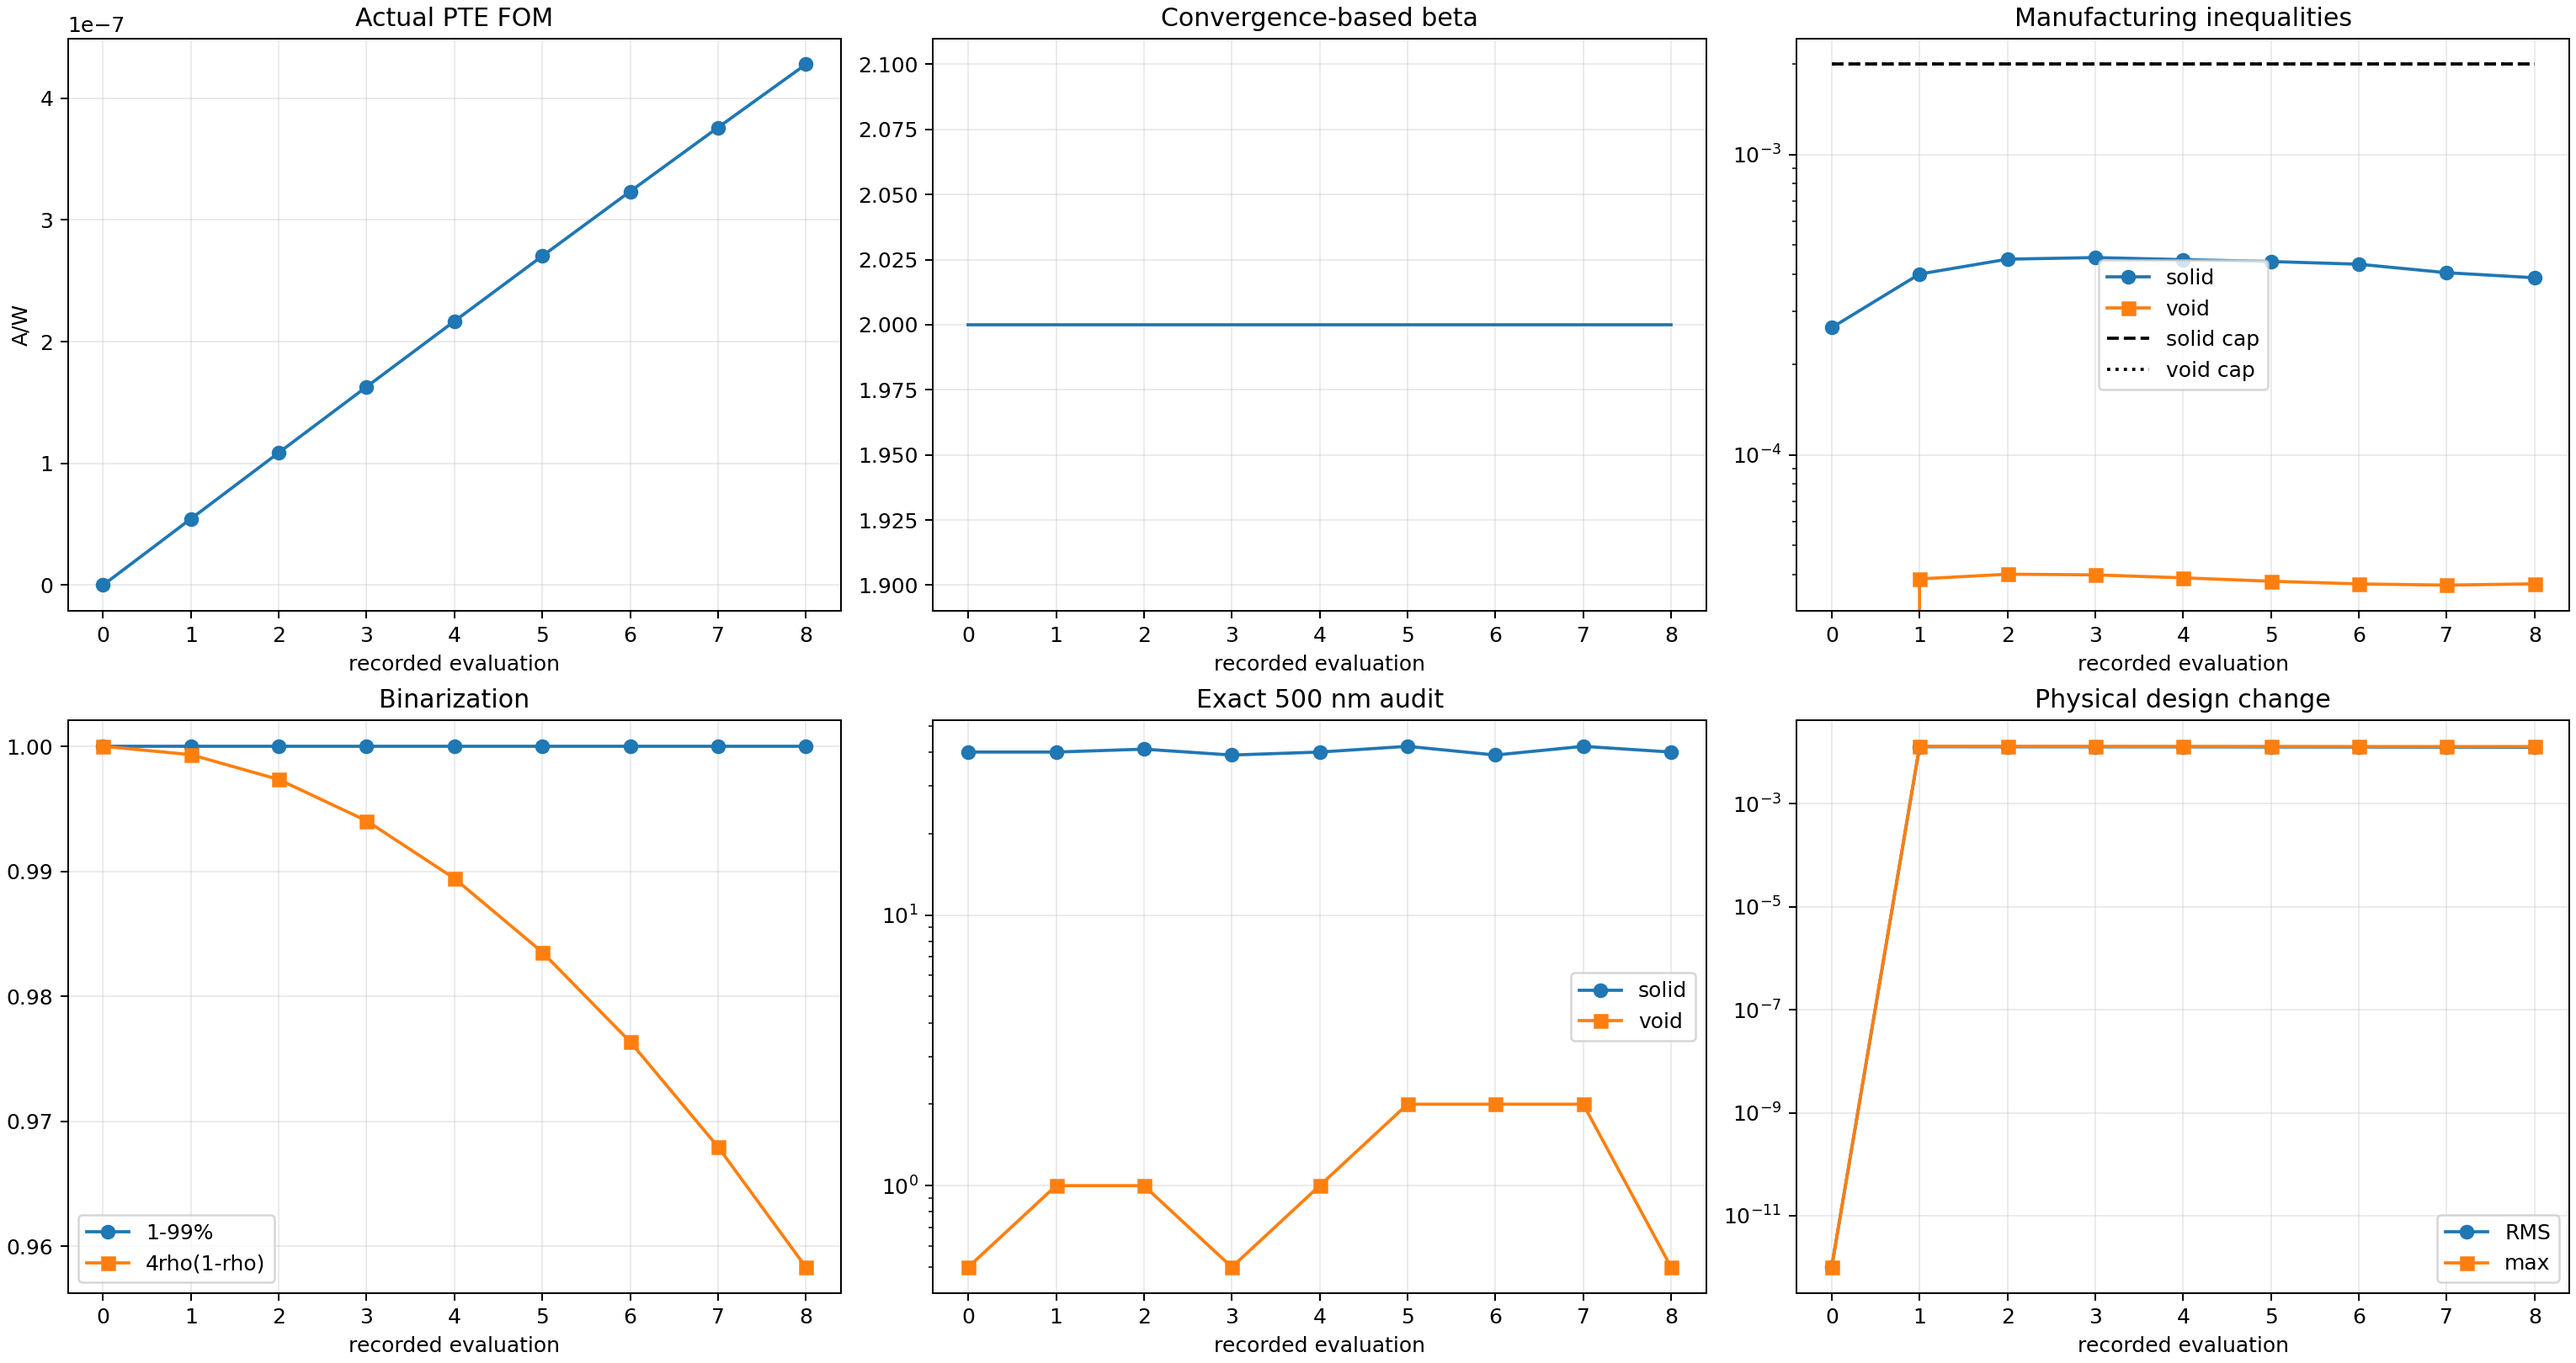
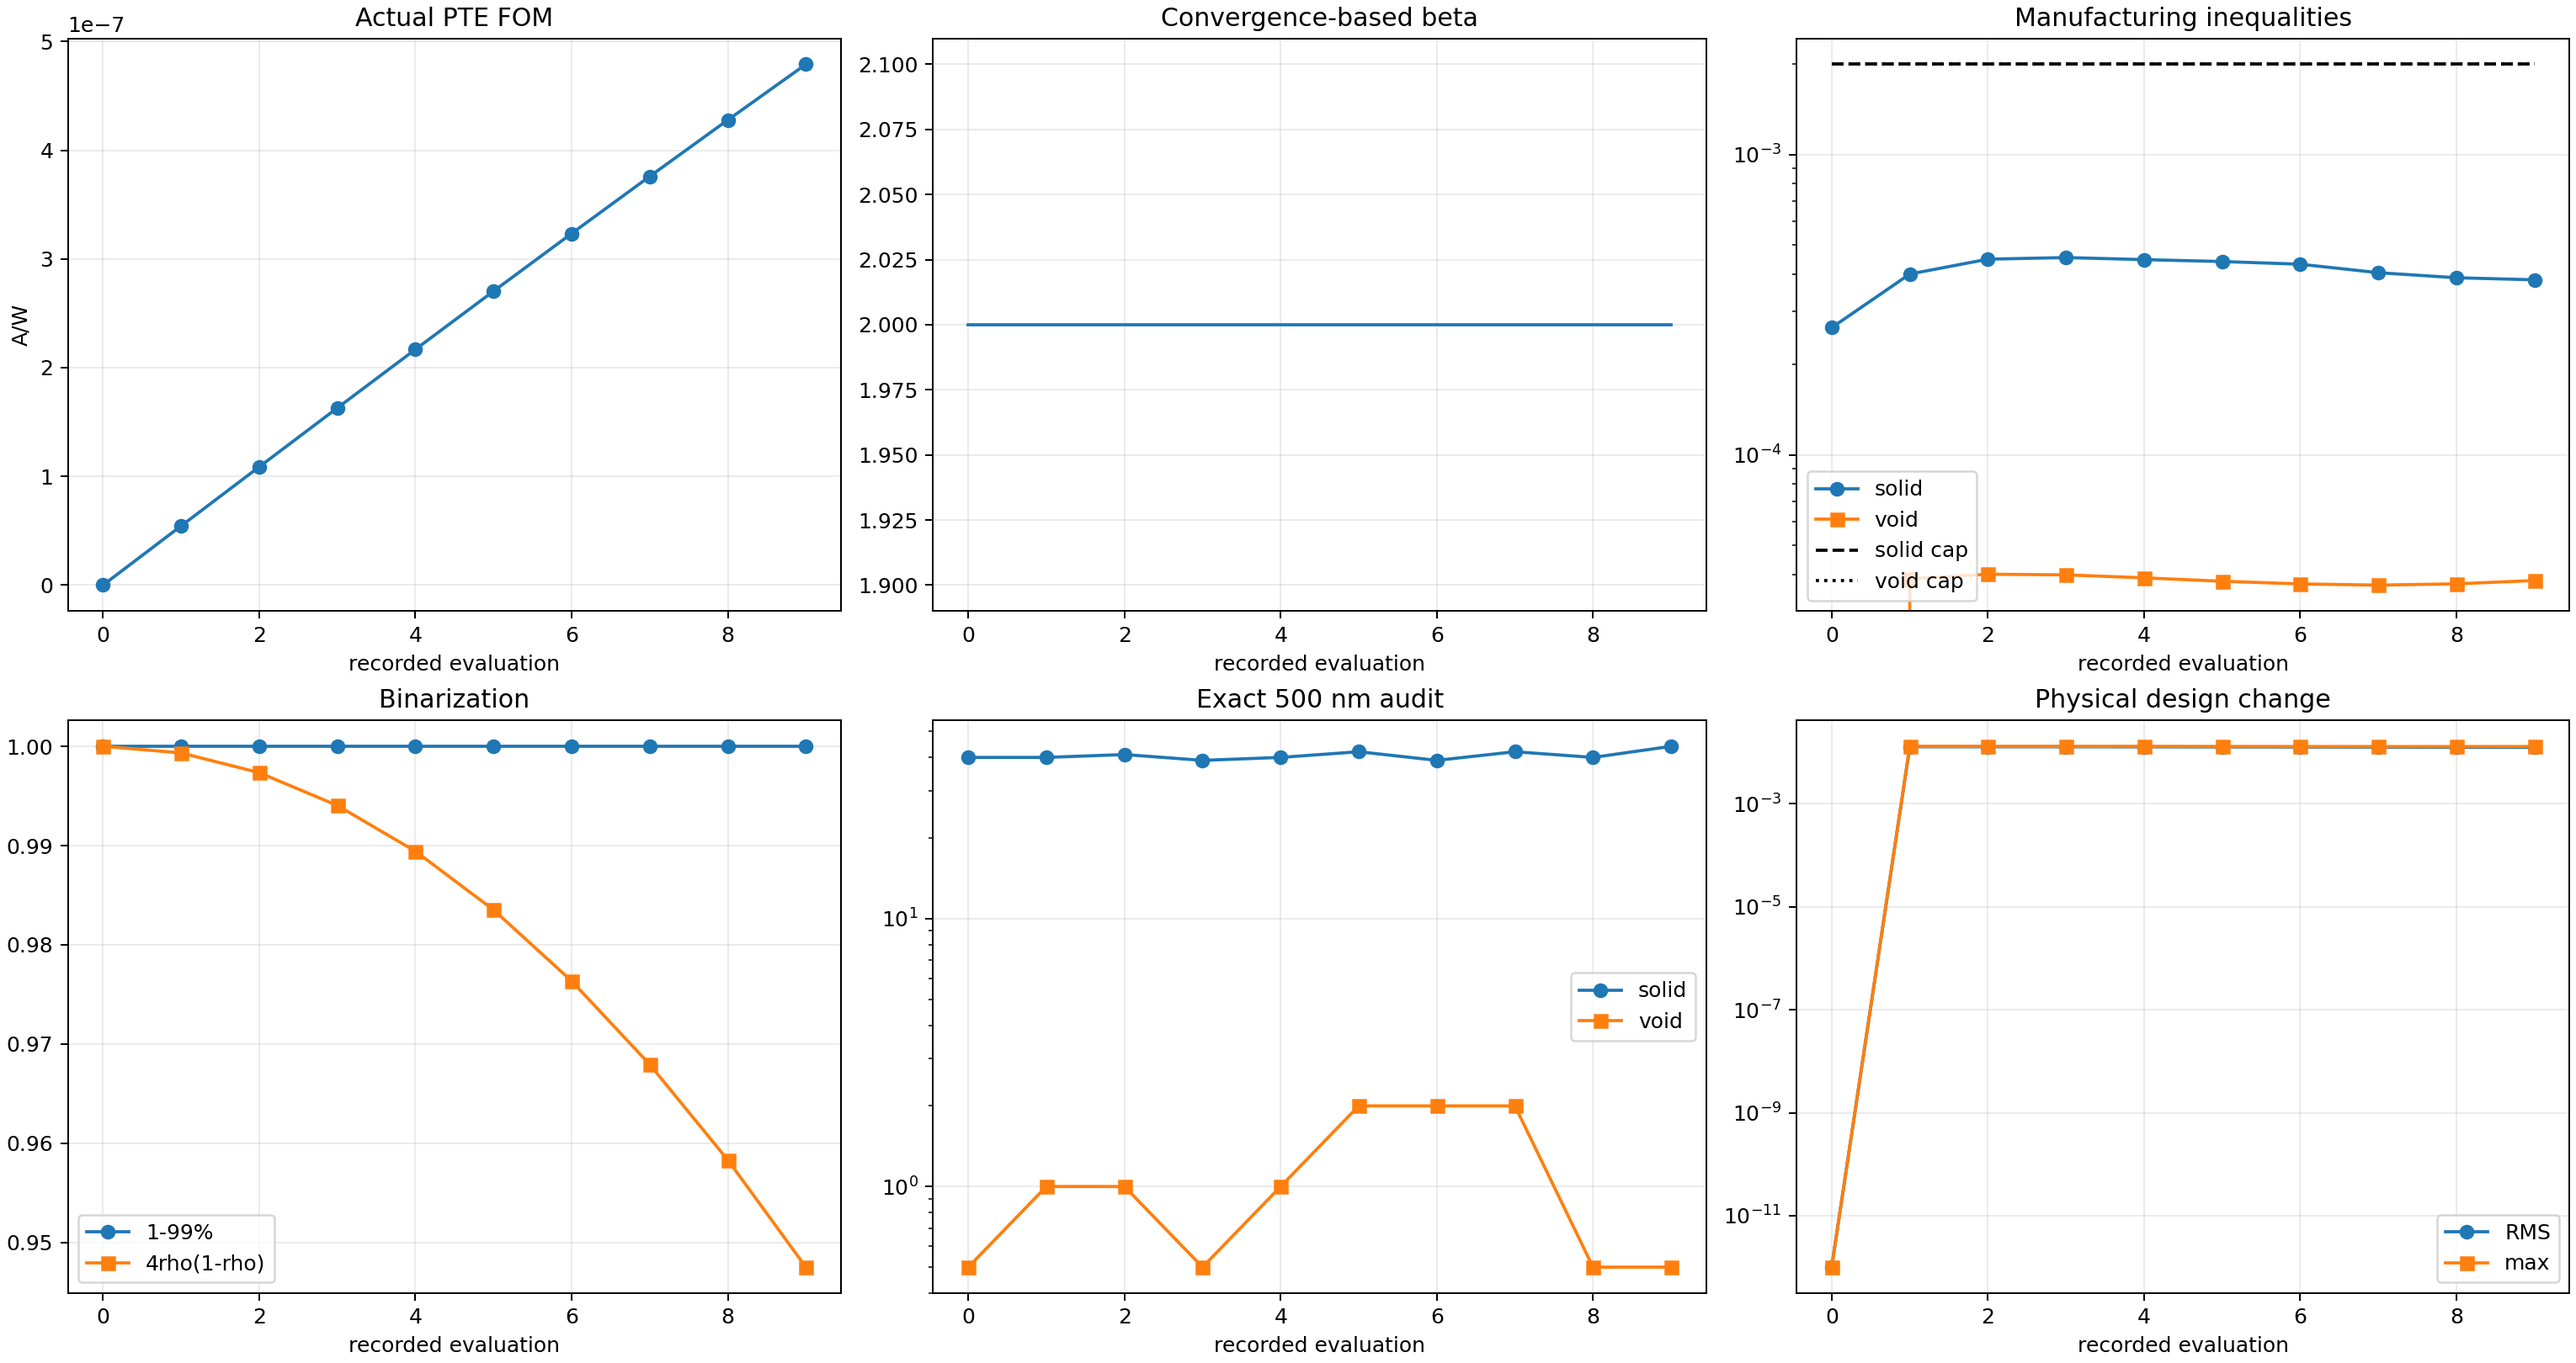
Record Run 005 run009_Ea_uniform_b002_s009_g009_accepted_mma

diff --git a/photothermal_pte/optimization_runs/run_009_uniform_Ea_from_scratch/results/OPTIMIZATION_REPORT.md b/photothermal_pte/optimization_runs/run_009_uniform_Ea_from_scratch/results/OPTIMIZATION_REPORT.md
@@ -2,12 +2,12 @@
 
 Status: `RUNNING_EXACT_UNIFORM_EA_OBJECTIVE_FIRST_OPTIMIZATION`
 
-Current stage: beta=2, accepted stage iteration=8, global iteration=8.
+Current stage: beta=2, accepted stage iteration=9, global iteration=9.
 
 Constraint contract: `soft_disk_opening_500nm_from_iteration_zero_v5`.
 
-Actual FOM: `4.277821838886e-07 A/W`. Fixed-cap solid/void constraints: `3.892203e-04` / `3.721748e-05` with caps `2.000000e-03` / `2.000000e-03`.
+Actual FOM: `4.790010472346e-07 A/W`. Fixed-cap solid/void constraints: `3.830665e-04` / `3.816660e-05` with caps `2.000000e-03` / `2.000000e-03`.
 
-Exact 500 nm bad cells: solid `40`, void `0`. Stage convergence: `False` (recent FOM/density changes have not plateaued).
+Exact 500 nm bad cells: solid `44`, void `0`. Stage convergence: `False` (recent FOM/density changes have not plateaued).
 
 Beta advances only after the stage FOM/density plateau. The run is not complete until the projected-binary and exact 500 nm gates pass and a fresh thresholded-binary GPU/CUDA evaluation succeeds.
